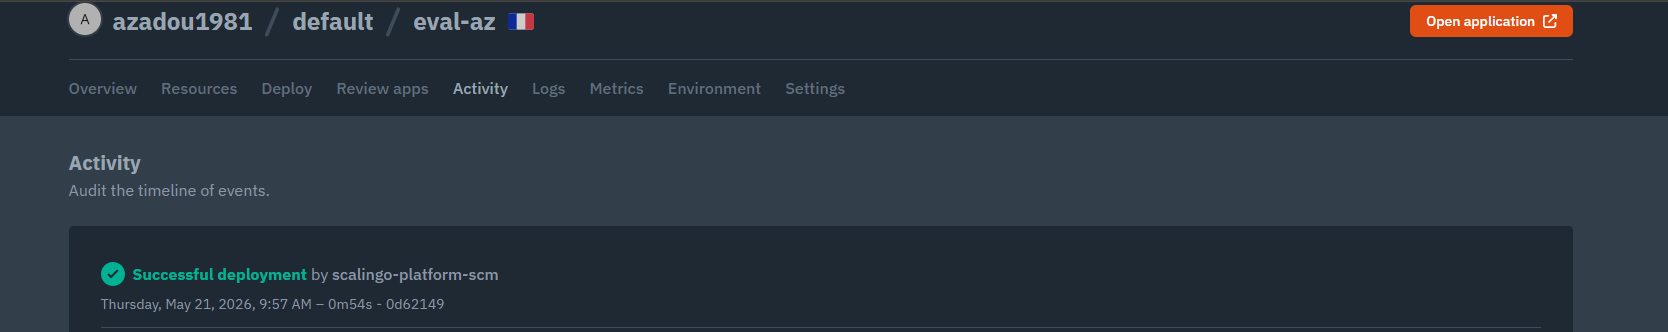
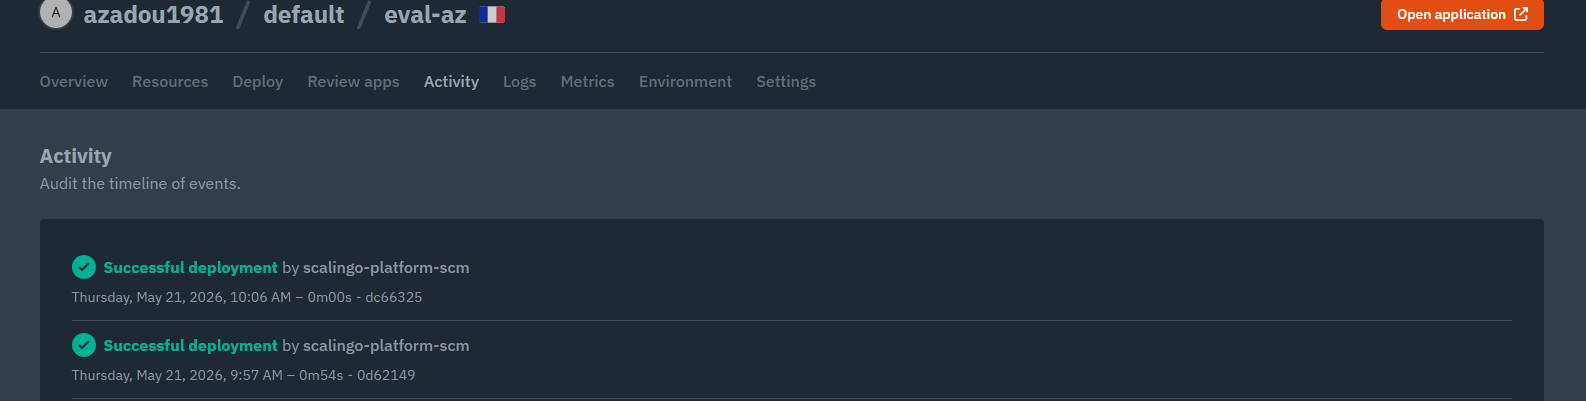
ajout de deploy.md & screnn

diff --git a/deploy.md b/deploy.md
@@ -1,0 +1,51 @@
+# Rapport de déploiement - [TANZILLI Azad]
+
+## Liens
+
+- **Application en ligne :** [https://eval-az.osc-fr1.scalingo.io/]
+- **Dépôt de code :** [https://github.com/azadou1981/evalution]
+
+---
+
+## Prérequis techniques
+
+- **Langage :** PHP 
+- **Framework :** Symfony 
+- **Moteur de templates :** Twig 
+- **Gestionnaire de dépendances :** Composer 
+- **Plateforme de déploiement :** Scalingo 
+
+---
+
+## Fichier de configuration CI
+
+### 1. Création de l'application sur Scalingo
+
+1. Se connecter au [dashboard Scalingo](https://dashboard.scalingo.com/).
+2. Cliquer sur **"Create a new application"**.
+3. Nommer l'application : `eval-az`.
+
+### 2. Liaison avec le dépôt GitHub
+
+1. Dans l'onglet **Deploy** de l'application, choisir **GitHub** comme méthode de déploiement.
+2. Sélectionner le dépôt `azadou1981/evalution`.
+
+### 3. Configuration des variables d'environnement (si besoin)
+
+Si le projet nécessite des variables spécifiques (ex: `APP_ENV=prod`), les ajouter dans l'onglet **Environment** du dashboard Scalingo.
+
+### 4. Déploiement
+
+**Déploiement manuel :**
+- Se rendre dans l'onglet **Deploy** > **Manual deployment**.
+- Sélectionner la branche `main` (ou `master`).
+- Cliquer sur **Deploy**.
+
+### 5. Vérification
+
+- Attendre que le build se termine
+- Une fois le statut **"Deployed"** affiché, ouvrir l'URL : https://eval-az.osc-fr1.scalingo.io/
+
+---
+
+